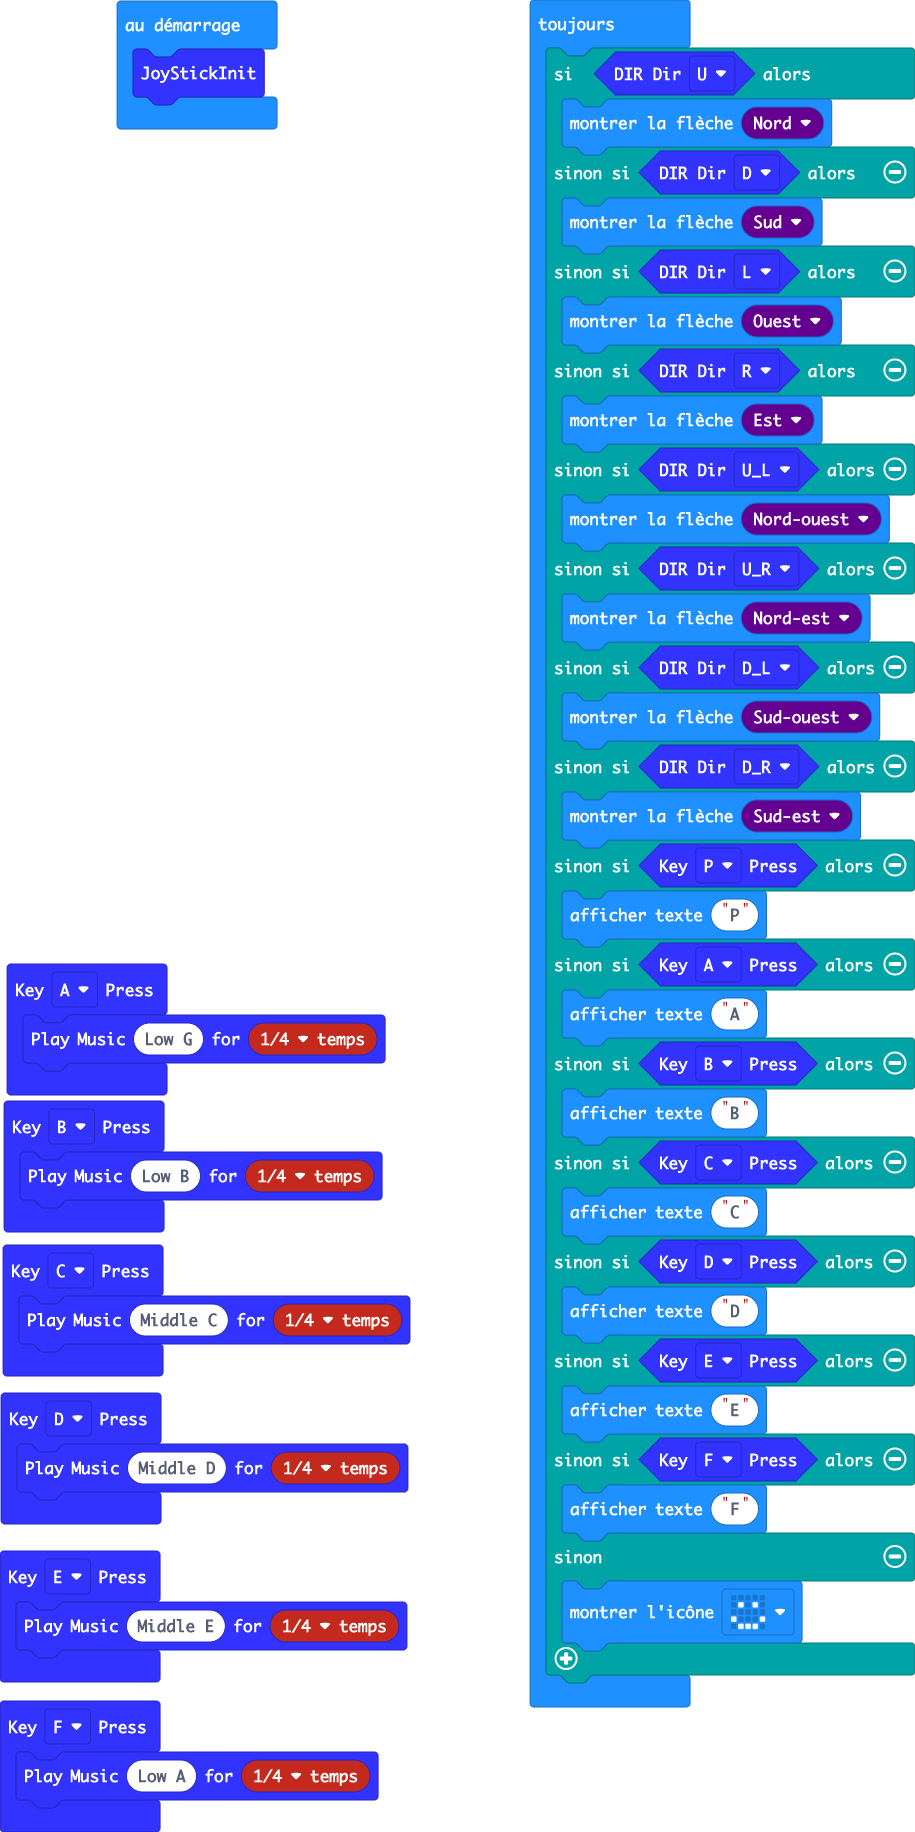
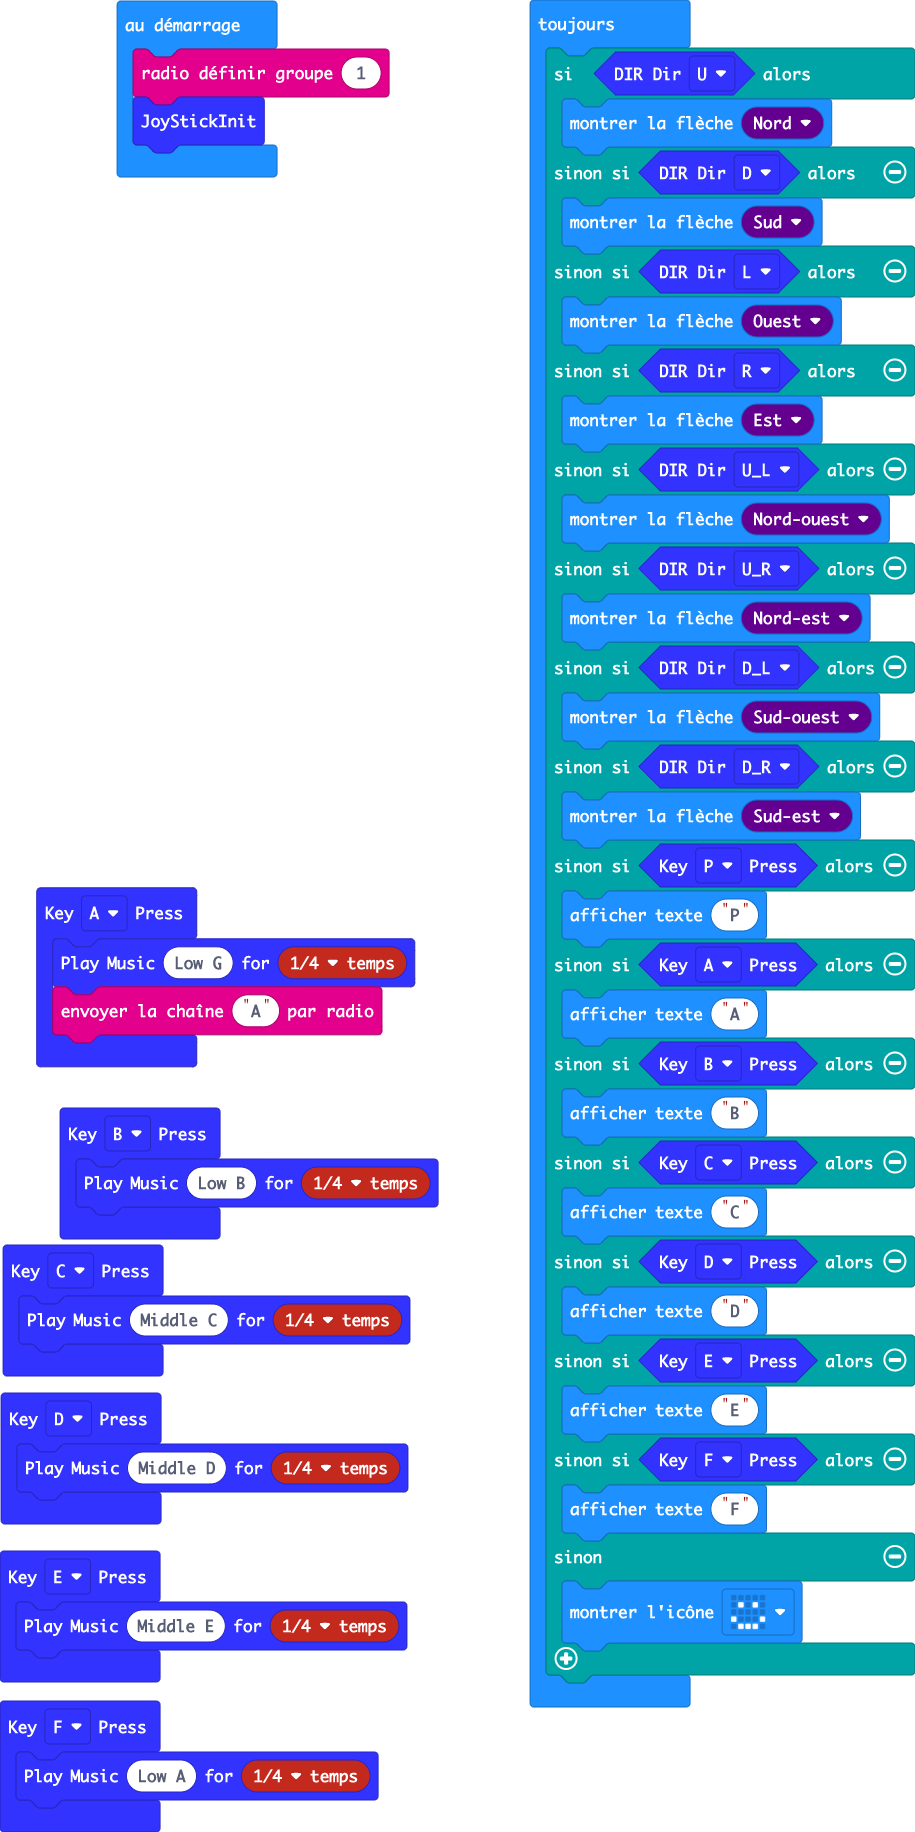
Try to communicate en Radio

Changed region(s): [[0.0, 0.4667, 0.4896, 0.6845], [0.1224, 0.0, 0.4284, 0.1245]]

diff --git a/main.ts b/main.ts
@@ -3,6 +3,7 @@ WSJoyStick.onKey(KEY.F, function () {
 })
 WSJoyStick.onKey(KEY.A, function () {
     WSJoyStick.PlayMusic(196, music.beat(BeatFraction.Quarter))
+    radio.sendString("A")
 })
 WSJoyStick.onKey(KEY.E, function () {
     WSJoyStick.PlayMusic(330, music.beat(BeatFraction.Quarter))
@@ -16,6 +17,7 @@ WSJoyStick.onKey(KEY.B, function () {
 WSJoyStick.onKey(KEY.C, function () {
     WSJoyStick.PlayMusic(262, music.beat(BeatFraction.Quarter))
 })
+radio.setGroup(1)
 WSJoyStick.JoyStickInit()
 basic.forever(function () {
     if (WSJoyStick.Listen_Dir(DIR.U)) {
